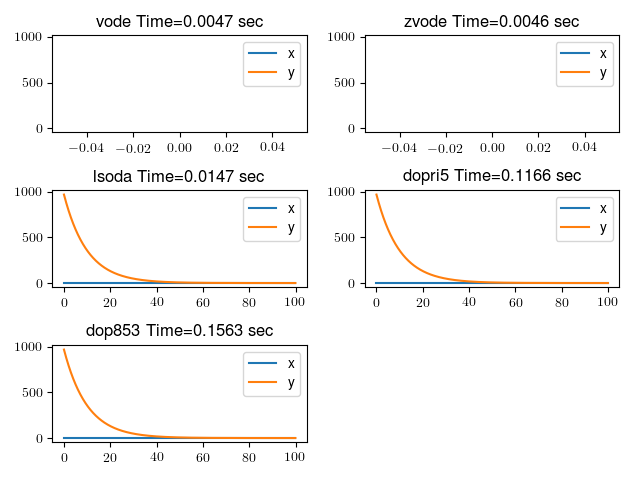
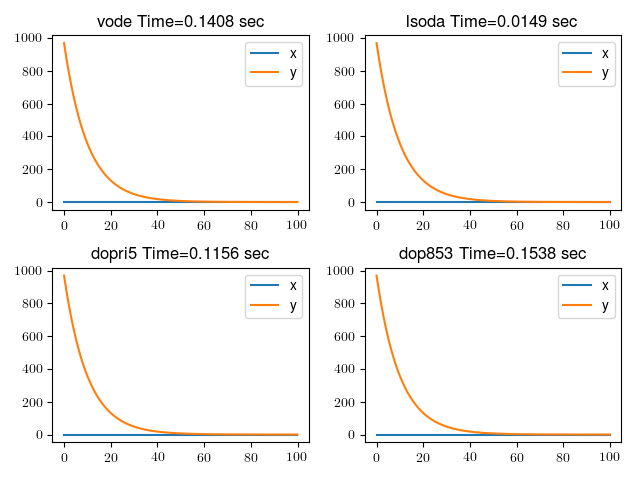
Updated script.
Former-commit-id: eb592f14acbf47e2b7006807b0bb6612d35927e3
Former-commit-id: 847f25d7412440c5a3a2b720f6bfce4f45b88bf5

diff --git a/DynamicalSystems2017/Examples/sandeep_fag.py b/DynamicalSystems2017/Examples/sandeep_fag.py
@@ -37,7 +37,10 @@ def solve( ts, init, solver ):
     t = time.time( )
     r = scipy.integrate.ode( system )
     r.set_initial_value( init, 0 )
-    r.set_integrator( solver )
+    if solver != 'vode':
+        r.set_integrator( solver )
+    else:
+        r.set_integrator( solver, method = 'bdf' )
     dt = ts[1] - ts[0]
     solution = [ ]
     while r.successful( ) and r.t < ts[-1]:
@@ -47,9 +50,9 @@ def solve( ts, init, solver ):
 
 def other_solvers( ts, init ):
     plt.figure( )
-    solvers = [ 'vode', 'zvode', 'lsoda', 'dopri5', 'dop853' ]
+    solvers = [ 'vode', 'lsoda', 'dopri5', 'dop853' ]
     for i, solver in enumerate( solvers ):
-        ax = plt.subplot( int(len(solvers)/2)+1, 2, i+1 )
+        ax = plt.subplot( int(len(solvers)/2), 2, i+1 )
         print( 'Solving using %s' % solver )
         ys, timeTaken = solve( ts, init, solver )
         title = '%s Time=%.4f sec' % (solver, timeTaken)
